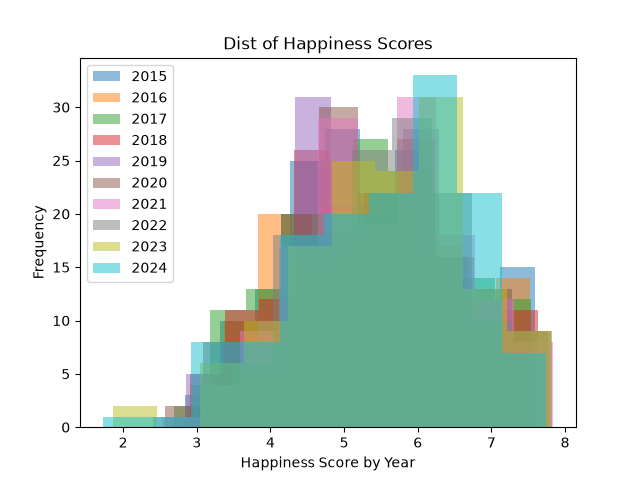
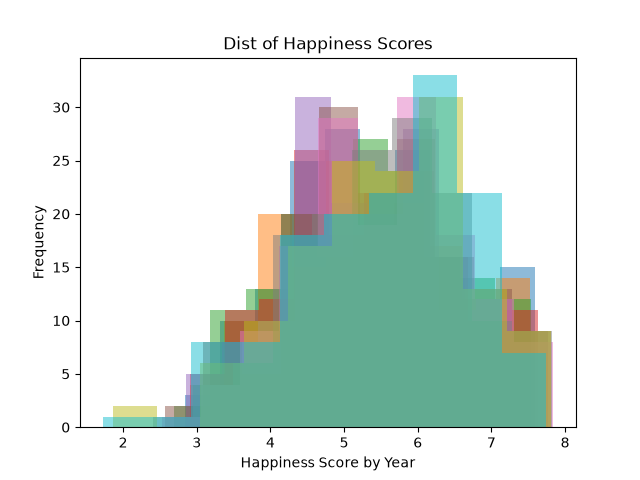
more fixes

Changed region(s): [[0.125, 0.125, 0.2812, 0.5938]]

diff --git a/assignments_01/project_01.py b/assignments_01/project_01.py
@@ -10,6 +10,8 @@ import os
 
 @task(retries=3, retry_delay_seconds=2)
 def load_Data():
+    logger = get_run_logger()
+
     main_df = pd.DataFrame(columns = ['Year'])
     for file in os.listdir("data"):
         full_path = os.path.join("data", file)
@@ -23,6 +25,7 @@ def load_Data():
     
     completed_path = os.path.join("./outputs","merged_happiness.csv")
     main_df.to_csv(completed_path,sep=";",decimal=",",index=False)
+    logger.info("Data merged and loaded successfully")
 
 
     total_countries = main_df["Country"].nunique()
@@ -61,17 +64,18 @@ def des_stats(file):
 @task
 def visualizations(file):
     df = pd.read_csv(file,sep=";",decimal=",")
-
+    logger = get_run_logger()
     #Histogram
 
     for year, group in df.groupby('Year'):
         plt.hist(group['Happiness score'], alpha=0.5, label=str(year))
-        plt.legend()    
     plt.title("Dist of Happiness Scores")
     plt.xlabel("Happiness Score by Year")
     plt.ylabel("Frequency")
     plt.savefig(os.path.join("outputs", "happiness_histogram.png"))
     plt.close()
+    logger.info("Histogram is completed")
+
 
     # Box Plot
     grouped = df.groupby('Year')['Happiness score']
@@ -81,6 +85,7 @@ def visualizations(file):
     plt.title("Happiness by Year")
     plt.savefig(os.path.join("outputs", "happiness_by_year.png"))
     plt.close()
+    logger.info("Box Plot is completed")
 
     # Scatter plot
     plt.scatter(df['GDP per capita'],df['Happiness score'], color="green")
@@ -90,6 +95,7 @@ def visualizations(file):
     plt.legend()
     plt.savefig(os.path.join("outputs", "gdp_vs_happiness.png"))
     plt.close()
+    logger.info("Scatter plot is completed")
 
     # Heatmap
     numeric_df = df.select_dtypes(include="number")
@@ -98,6 +104,7 @@ def visualizations(file):
     plt.title("Correlation Heatmap")
     plt.savefig(os.path.join("outputs", "correlation_heatmap.png"))
     plt.close()
+    logger.info("Heatmap is completed")
 
 
 @task

diff --git a/assignments_01/warmup_01.py b/assignments_01/warmup_01.py
@@ -56,7 +56,7 @@ import numpy as np
 new_array = np.array([10, 20, 30, 40, 50])
 
 print(f"Shape: {new_array.shape}")
-print(f"Shape: {new_array.ndim}")
+print(f"Size of Ndim: {new_array.ndim}")
 print(f"Array type: {new_array.dtype}")
 
 # Numpy Q2
@@ -346,7 +346,7 @@ def create_series(arr):
     return pd.Series(arr, name = 'values')
 
 def clean_data(series):
-    return series.dropna(ignore_index=True)
+    return series.dropna().reset_index(drop=True)
 
 def summarize_data(series):
     return {"mean":series.agg("mean"),"median":series.agg("median"),"std":series.agg("std"),"mode":series.mode()[0]}
